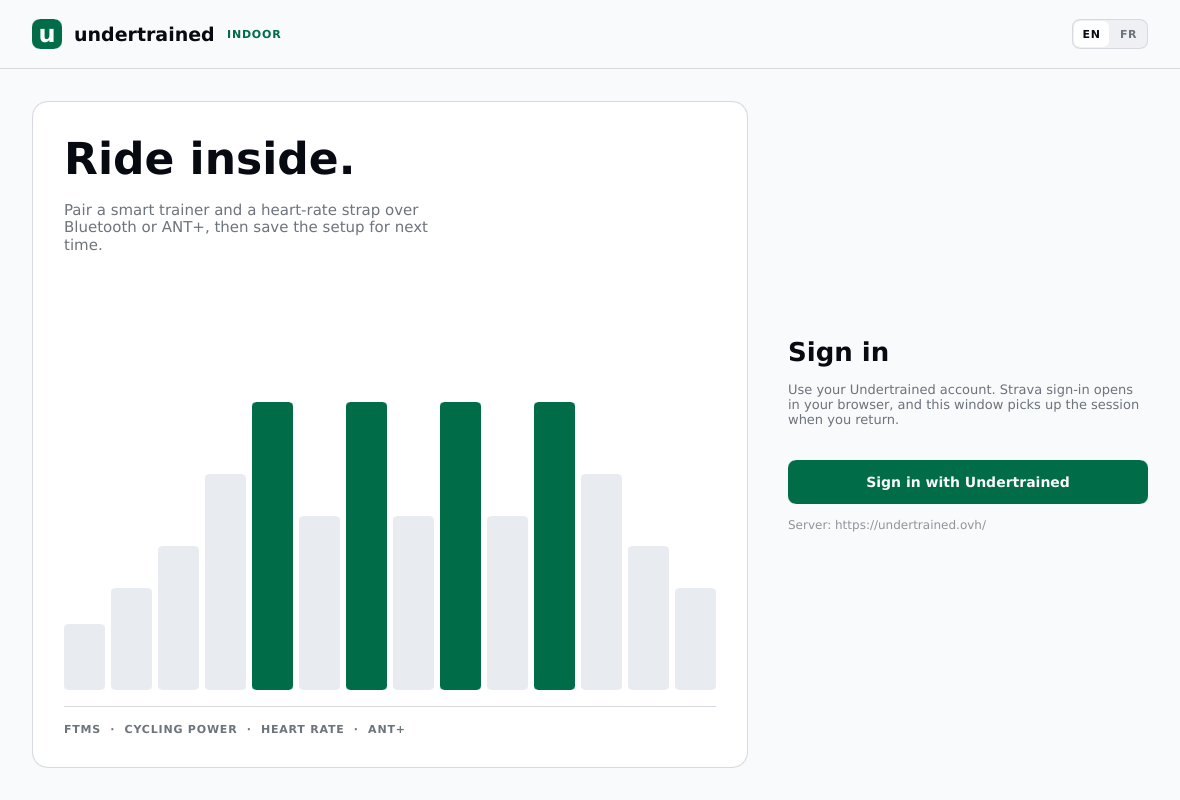
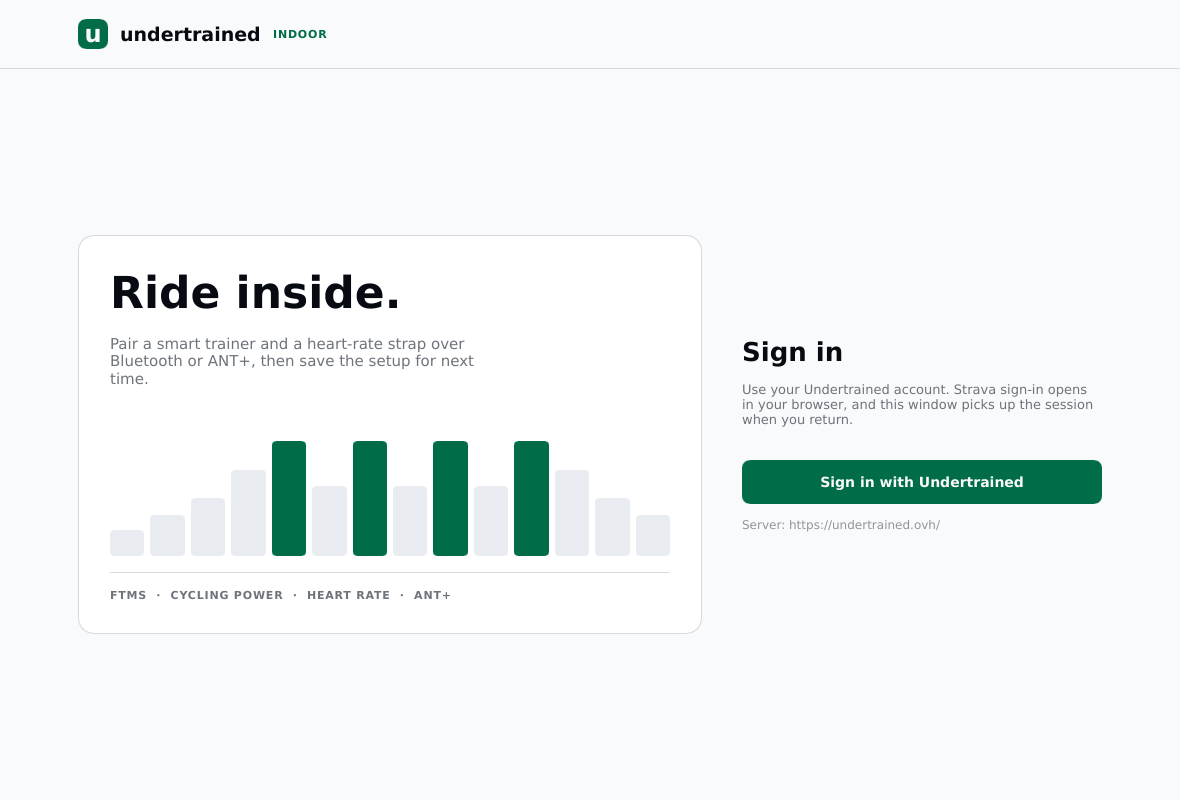
Constrain page widths and clarify workout search and empty states

diff --git a/desktop/src/main.rs b/desktop/src/main.rs
@@ -189,6 +189,7 @@ fn workout_rows(ui: &AppWindow, state: &mut State) {
         .collect();
     ui.set_workouts(ModelRc::new(VecModel::from(personal)));
     ui.set_built_ins(ModelRc::new(VecModel::from(built_ins)));
+    ui.set_workouts_filtering(!query.trim().is_empty());
     ui.set_workouts_total(library.workouts.len() as i32);
     ui.set_workouts_personal(library.personal_count() as i32);
     ui.set_workouts_loading(library.loading);
@@ -496,7 +497,8 @@ fn main() -> anyhow::Result<()> {
     };
     let state = Rc::new(RefCell::new(State {
         devices: vec![],
-        lang: i18n::resolve(settings.language.as_deref(), None),
+        // Before sign-in the system decides; the account takes over once it is known.
+        lang: i18n::resolve(None),
         settings,
         session: None,
         auth_job: None,
@@ -604,43 +606,8 @@ fn main() -> anyhow::Result<()> {
             });
             let _ = commands.send(ble::Command::Reset);
             reset_session_ui(&ui, &mut state.borrow_mut());
-            // Without an account the saved preference, then the OS, decide the language.
-            let lang = {
-                let state = state.borrow();
-                i18n::resolve(state.settings.language.as_deref(), None)
-            };
-            apply_language(&ui, &mut state.borrow_mut(), lang);
-        });
-    }
-    {
-        let weak = ui.as_weak();
-        let state = state.clone();
-        let handle = runtime.handle().clone();
-        let events = workout_events.clone();
-        ui.on_set_language(move |code| {
-            let Some(lang) = Lang::parse(&code) else {
-                return;
-            };
-            let ui = weak.unwrap();
-            {
-                let mut state = state.borrow_mut();
-                if state.lang == lang && state.settings.language.as_deref() == Some(lang.tag()) {
-                    return;
-                }
-                state.settings.language = Some(lang.tag().to_owned());
-                if let Err(error) = store::save(&state.settings) {
-                    tracing::warn!(%error, "Could not save the language preference");
-                }
-                apply_language(&ui, &mut state, lang);
-            }
-            // Built-in workouts come from the server in the interface language.
-            let refetch = {
-                let state = state.borrow();
-                state.session.is_some() && (state.library.loaded || state.library.loading)
-            };
-            if refetch {
-                start_workout_fetch(&ui, &state, &handle, &events);
-            }
+            // Without an account the system decides the language again.
+            apply_language(&ui, &mut state.borrow_mut(), i18n::resolve(None));
         });
     }
     {
@@ -894,15 +861,8 @@ fn main() -> anyhow::Result<()> {
                         generation,
                     };
                     let _ = credentials.send((sender, Some(session.clone())));
-                    // A new account: the saved preference still wins, then the account's
-                    // language, then the OS.
-                    let lang = {
-                        let state = timer_state.borrow();
-                        i18n::resolve(
-                            state.settings.language.as_deref(),
-                            session.athlete.language.as_deref(),
-                        )
-                    };
+                    // The account's language wins once known; the system fills in otherwise.
+                    let lang = i18n::resolve(session.athlete.language.as_deref());
                     clear_library(&mut timer_state.borrow_mut());
                     timer_state.borrow_mut().session = Some(session);
                     apply_language(&ui, &mut timer_state.borrow_mut(), lang);

diff --git a/desktop/src/smoke.rs b/desktop/src/smoke.rs
@@ -230,30 +230,65 @@ pub fn run(ui: &AppWindow, state: &Rc<RefCell<State>>) {
         shared.meta, "up to 25 min",
         "Built-ins use the server label"
     );
+    assert!(!ui.get_workouts_filtering(), "No search yet");
+    // One search over both sections: personal-only, built-in-only, none, then cleared.
     ui.invoke_filter_workouts("  SWEET ".into());
+    assert!(ui.get_workouts_filtering());
     assert_eq!(
         ui.get_workouts().row_count(),
         1,
         "Search is trimmed and case-insensitive"
     );
-    assert_eq!(ui.get_built_ins().row_count(), 0);
+    assert_eq!(
+        ui.get_built_ins().row_count(),
+        0,
+        "No built-in matches 'sweet'"
+    );
     ui.invoke_filter_workouts("step".into());
-    assert_eq!(ui.get_workouts().row_count(), 0);
+    assert_eq!(
+        ui.get_workouts().row_count(),
+        0,
+        "No personal match for 'step'"
+    );
     assert_eq!(
         ui.get_built_ins().row_count(),
         1,
-        "Built-ins are searchable"
+        "Built-ins are searchable on their own"
+    );
+    assert_eq!(
+        ui.get_workouts_total(),
+        4,
+        "The total stays the whole library"
     );
     ui.invoke_filter_workouts("zzz".into());
+    assert!(ui.get_workouts_filtering());
     assert_eq!(
         ui.get_workouts().row_count() + ui.get_built_ins().row_count(),
         0
     );
     assert_eq!(ui.get_workouts_total(), 4, "No matches keeps the library");
-    ui.invoke_filter_workouts("".into());
+    assert_eq!(
+        ui.get_workouts_personal(),
+        3,
+        "No matches never reads as an empty account"
+    );
+    ui.invoke_filter_workouts("   ".into());
+    assert!(!ui.get_workouts_filtering(), "Blank queries do not filter");
     assert_eq!(
         ui.get_workouts().row_count() + ui.get_built_ins().row_count(),
         4
+    );
+    ui.invoke_filter_workouts("".into());
+    assert!(!ui.get_workouts_filtering());
+    assert_eq!(
+        ui.get_workouts().row_count(),
+        3,
+        "Clearing restores personal"
+    );
+    assert_eq!(
+        ui.get_built_ins().row_count(),
+        1,
+        "Clearing restores built-ins"
     );
     for key in ["p:1", "b:fixture-step-test"] {
         ui.set_workouts_notice(0);

diff --git a/desktop/src/i18n.rs b/desktop/src/i18n.rs
@@ -52,11 +52,11 @@ pub fn os_language() -> Option<Lang> {
     sys_locale::get_locales().find_map(|value| Lang::parse(&value))
 }
 
-/// Saved desktop preference, then the account's language, then the OS, then English.
-pub fn resolve(saved: Option<&str>, account: Option<&str>) -> Lang {
-    saved
+/// The account's language when the server sends one, then the OS, then English. There is
+/// no desktop-side override: the website and the system are the sources of truth.
+pub fn resolve(account: Option<&str>) -> Lang {
+    account
         .and_then(Lang::parse)
-        .or_else(|| account.and_then(Lang::parse))
         .or_else(os_language)
         .unwrap_or_default()
 }
@@ -122,14 +122,13 @@ mod tests {
     }
 
     #[test]
-    fn saved_preference_beats_account_beats_english() {
-        assert_eq!(resolve(Some("fr-FR"), Some("en-GB")), Lang::Fr);
-        assert_eq!(resolve(None, Some("fr-FR")), Lang::Fr);
-        assert_eq!(resolve(Some("klingon"), Some("fr-FR")), Lang::Fr);
-        // Without a saved or account language the OS decides, and English is the last resort.
+    fn account_beats_system_beats_english() {
+        assert_eq!(resolve(Some("fr-FR")), Lang::Fr);
+        assert_eq!(resolve(Some("en-GB")), Lang::En);
+        // Without an account language the OS decides, and English is the last resort.
         let os = os_language().unwrap_or_default();
-        assert_eq!(resolve(None, None), os);
-        assert_eq!(resolve(None, Some("xx")), os);
+        assert_eq!(resolve(None), os);
+        assert_eq!(resolve(Some("xx")), os, "Unknown account tags fall through");
     }
 
     #[test]

diff --git a/desktop/src/store.rs b/desktop/src/store.rs
@@ -8,10 +8,6 @@ pub struct Settings {
     pub rider_name: String,
     pub trainer_id: Option<String>,
     pub heart_rate_id: Option<String>,
-    /// An explicit interface language chosen on this computer ("en-GB" or "fr-FR").
-    /// Absent means follow the account, then the operating system.
-    #[serde(default)]
-    pub language: Option<String>,
 }
 
 pub fn path() -> Result<PathBuf> {
@@ -36,4 +32,28 @@ pub fn save(settings: &Settings) -> Result<()> {
     fs::write(&temporary, serde_json::to_vec_pretty(settings)?)?;
     fs::rename(temporary, path)?;
     Ok(())
+}
+
+#[cfg(test)]
+mod tests {
+    use super::*;
+
+    #[test]
+    fn older_files_with_a_language_entry_still_load_and_keep_their_fields() {
+        // Builds before the account-driven language wrote a desktop preference here.
+        // It must neither fail to parse nor influence anything: it is simply dropped.
+        let saved: Settings = serde_json::from_str(
+            r#"{"rider_name":"Flavien","trainer_id":"hci0/dev_AA","heart_rate_id":null,"language":"fr-FR"}"#,
+        )
+        .unwrap();
+        assert_eq!(saved.rider_name, "Flavien");
+        assert_eq!(saved.trainer_id.as_deref(), Some("hci0/dev_AA"));
+        assert!(saved.heart_rate_id.is_none());
+        let rewritten = serde_json::to_string(&saved).unwrap();
+        assert!(
+            !rewritten.contains("language"),
+            "The entry is not carried forward"
+        );
+        assert!(rewritten.contains("\"trainer_id\":\"hci0/dev_AA\""));
+    }
 }

diff --git a/desktop/docs/design.md b/desktop/docs/design.md
@@ -32,7 +32,9 @@ Two header tabs, Devices and Workouts, switch screens without touching Bluetooth
 
 The list is read-only on purpose. Creating and editing stay on the Undertrained website, and the two browser actions say so in their labels ("New workout in browser", "Open in browser"). They only render when a verified account session exists, and the callback refuses with a notice otherwise. Links carry the workout id and nothing else; the token stays in the app.
 
-The library is the website's card grid, rebuilt natively. Each card is 206px tall: a 118px chart on a faintly tinted strip, then the name, a duration line ("1 h · 72 TSS", or the server's own label for a test whose length is a maximum), and the summary, all elided on one line. A compact "Open" button at the top right is the only action and only renders with a live session. The grid takes one to four columns from the available width (300px minimum per card, 440px maximum, 16px gap), so the minimum window shows two columns, the default three and 1700px four, with no stretched rows.
+The library page is laid out as a hierarchy rather than a stack: the page header (title, Refresh, the single "New workout in browser" action), then one library-wide toolbar in a bordered strip with the search field, a count ("2 workouts in the library", or "1 of 6 match" while a search is active) and a Clear button, then two sections that are always headed, "Personal workouts" and "Built-in workouts". The search filters both sections at once. A section with nothing to show gets a quiet grouped panel in place of its grid: "No personal workouts yet…" when the account has none, or "No personal workout matches this search." while filtering, and likewise for built-ins. When neither section matches, one library-level panel replaces both with a Clear search action, so an empty search result never reads as an account with nothing saved. The empty personal state has no second create button; the header action is the one place to create.
+
+The library is the website's card grid, rebuilt natively. Each card is 206px tall: a 118px chart on a faintly tinted strip, then the name, a duration line ("1 h · 72 TSS", or the server's own label for a test whose length is a maximum), and the summary, all elided on one line. A compact "Open" button at the top right is the only action and only renders with a live session. The grid uses the available content width with a 300px minimum per card, a 440px maximum and a 16px gap. The minimum window shows two columns; the capped content column shows up to three, including on wider monitors.
 
 The chart follows the website's `WorkoutMiniPreview` rules exactly, drawn with plain Slint rectangles because the software renderer has no path support and rectangles stay crisp at any card width: one bar per run, placed by time share; heights as percent of FTP against a ceiling of max(peak, 120%) plus 10% headroom, so an easy ride is never drawn as all-out; free-ride steps as low grey blocks in the chart grid color; adjacent steps that would draw identically merged so a flat block has no seams; and a one-pixel minimum width so a ten-second sprint keeps its own bar. Nothing is resampled or averaged. Colors come from the seven-zone ramp with the website's boundaries (55, 75, 90, 105, 120 and 150 percent).
 
@@ -46,9 +48,9 @@ Clicking a card, or pressing Enter on a focused one, opens a preview screen: the
 
 ## Language
 
-Two languages, English and French, with wording taken from the website's en-GB and fr-FR messages ("séance", "séances intégrées", "home trainer", "capteur cardiaque"). All screen text is `@tr(...)` in the Slint file; Slint bundles the gettext catalogs under `ui/lang` into the binary and `select_bundled_translation` switches them live, so a change in the header switch redraws every string without a restart. Rust sends state codes rather than sentences (sensor states, resistance states, radio states, notice codes), which keeps every wording, including plurals such as "{n} workout", in one catalog; the only strings Rust formats are durations, the card meta line and the display names of ANT+ devices, whose driver names are generic English. Raw diagnostics from a radio or the server are shown as a small detail line under the translated summary and are never translated.
+Two languages, English and French, with wording taken from the website's en-GB and fr-FR messages ("séance", "séances intégrées", "home trainer", "capteur cardiaque"). All screen text is `@tr(...)` in the Slint file; Slint bundles the gettext catalogs under `ui/lang` into the binary and `select_bundled_translation` switches them live, so the language resolved at sign-in redraws every string without a restart. Rust sends state codes rather than sentences (sensor states, resistance states, radio states, notice codes), which keeps every wording, including plurals such as "{n} workout", in one catalog; the only strings Rust formats are durations, the card meta line and the display names of ANT+ devices, whose driver names are generic English. Raw diagnostics from a radio or the server are shown as a small detail line under the translated summary and are never translated.
 
-The language is resolved in this order: the explicit choice saved on this computer, the account's language if the server sends one, the operating system's preference (read through the `sys-locale` crate, which uses the native preferred-language APIs on macOS and Windows and the locale variables on Linux), then English. Signing in with another account re-resolves it unless an explicit choice exists. Choosing a language also refetches the workout list with `?locale=`, under the same generation guard as any other request, so built-in tests arrive in the chosen language while personal workout text stays as the rider wrote it.
+The language is resolved in this order: the account's language if the server sends one, the operating system's preference (read through the `sys-locale` crate, which uses the native preferred-language APIs on macOS and Windows and the locale variables on Linux), then English. There is no switch in the app: the website's account setting and the system are the sources of truth, so a rider changes the language where the website already lets them. Before sign-in the system decides; sign-in re-resolves with the account, and sign-out falls back to the system. Each workout request carries `?locale=` for the language in effect, so built-in tests arrive in that language while personal workout text stays as the rider wrote it. Older settings files that still contain a `language` entry load fine; the entry is ignored and dropped on the next save.
 
 ## Two radios
 
@@ -65,6 +67,10 @@ Load states are separate panels rather than one generic error. First load shows 
 The list loads once after sign-in, or on first opening the tab, and then only when the rider presses Refresh. Every request captures a cloned session and a generation number; responses for an older request or a previous account are dropped, and sign-out and a fresh sign-in both clear the library and abort the outstanding request. A failed request never falls back to made-up data.
 
 While the device picker is open, the global overlay flag disables keyboard focus on every control behind it, so Tab stays inside the dialog.
+
+## Page width
+
+Every screen puts its content in one centered column capped at 1024px, the website's `max-w-5xl`, with 32px gutters that hold down to the 880px minimum window. The header bar spans the window but its contents sit in the same column, as the website's toolbar does, so the navigation, the page actions and the cards share one left edge on any monitor. Type and card sizes never scale with the window; a wider monitor only gets wider margins, which keeps charts and paragraphs at readable proportions on an ultrawide display. The login block and the device screen are bounded in height as well (620px and 860px), so a very tall window centers the welcome card and keeps the device action bar near the cards instead of at the bottom edge.
 
 ## Visual system
 

diff --git a/desktop/README.md b/desktop/README.md
@@ -20,7 +20,7 @@ The colors follow the Undertrained website and switch with the operating system'
 - Show the tests built into Undertrained (the server generates them for the athlete's current FTP, with localized names) alongside personal workouts, labeled "Built-in", with the server's duration wording and no invented TSS. Their browser link opens the website's built-in workouts section.
 - Select a workout card to open a preview screen with its full-width chart. Riding it from the desktop is not built yet, and the screen says so: nothing is sent to the trainer and nothing is recorded.
 - Discover sensors over Bluetooth and ANT+ (USB stick) at the same time, each radio reporting on its own, so a switched-off Bluetooth never hides an ANT+ strap. ANT+ trainers deliver readings only; ERG control over ANT+ is not implemented.
-- Speak English and French, following the website's en-GB and fr-FR wording. The language comes from an explicit choice made in the app, then the account, then the operating system, then English; the EN/FR switch in the header works before and after sign-in and applies at once. Built-in workout names come from the server in the chosen language; personal workout and device names are never translated.
+- Speak English and French, following the website's en-GB and fr-FR wording. The language follows the account when the server sends one, otherwise the operating system, otherwise English; it applies as soon as sign-in completes, and there is no switch in the app. Built-in workout names come from the server in that language; personal workout and device names are never translated.
 - Follow the operating system's light or dark preference with the website's own colors, and show the Undertrained icon in the window and the desktop launcher.
 
 This is the account, device-setup and workout-library milestone. It does **not** start workouts, send resistance commands, perform calibration, record rides, or create and edit workouts inside the desktop app. Separate cadence sensors, automatic reconnection, and automatic re-pairing of saved devices are not implemented yet. Bluetooth devices that omit supported service UUIDs from advertisements may not appear. Heart-rate reception has been verified on this computer over BLE and ANT+, including ANT+ discovery with Bluetooth disabled. Trainer hardware and USB access on macOS/Windows still need testing. See [ANT+ implementation and hardware checks](docs/ant-bridge.md) for supported sticks, profiles and limitations.
